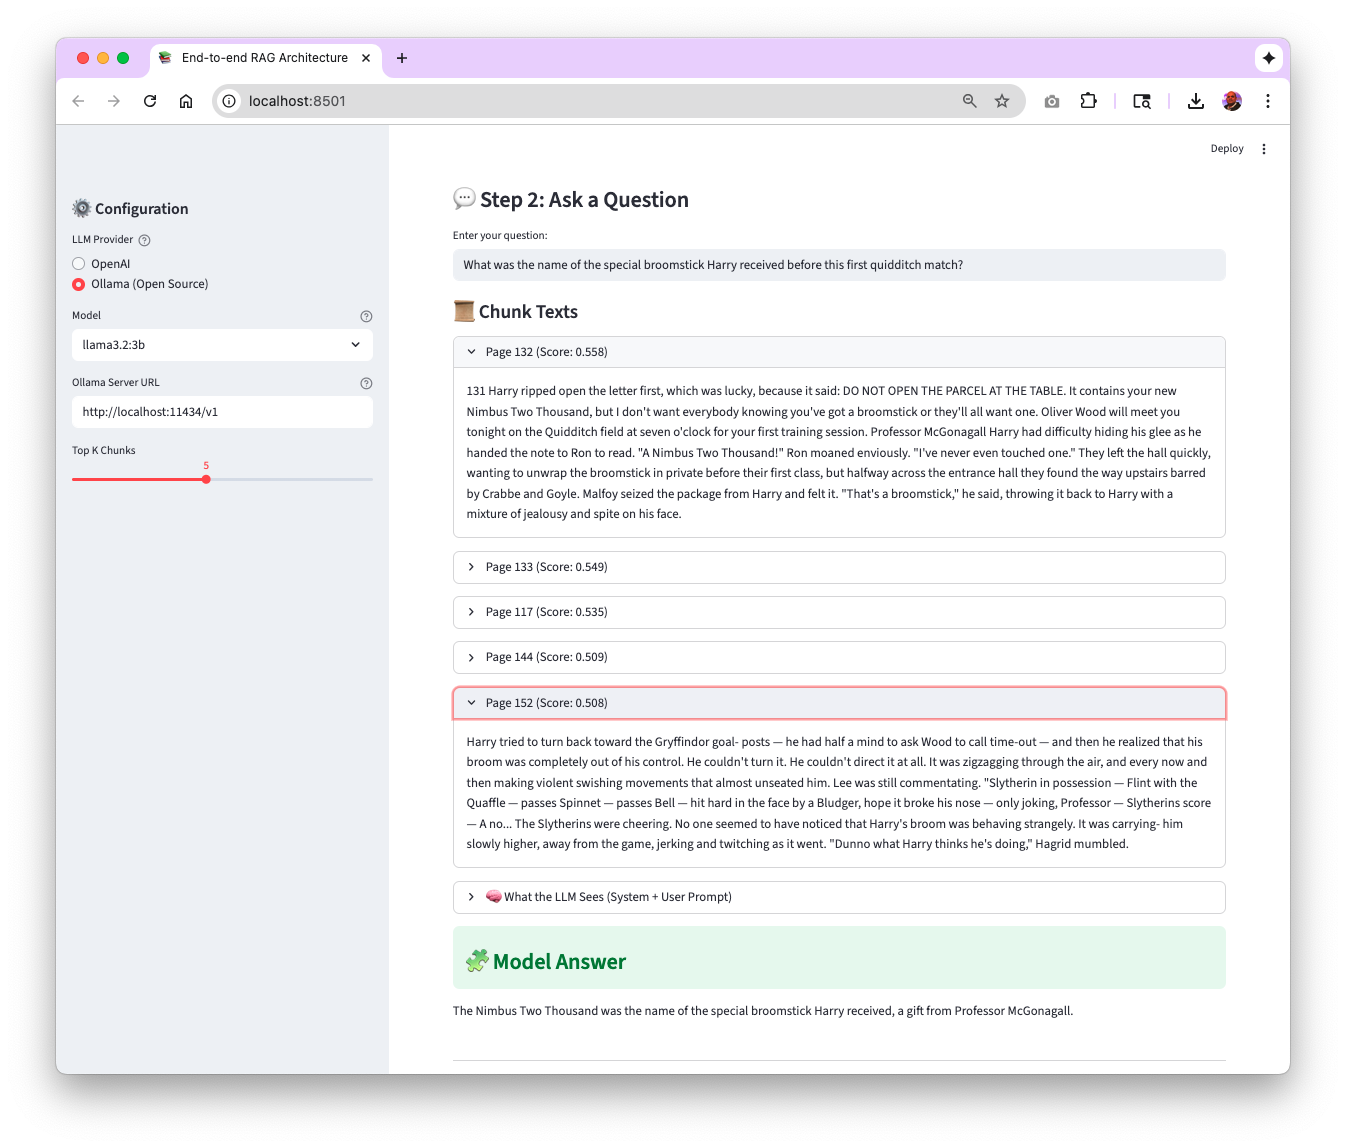
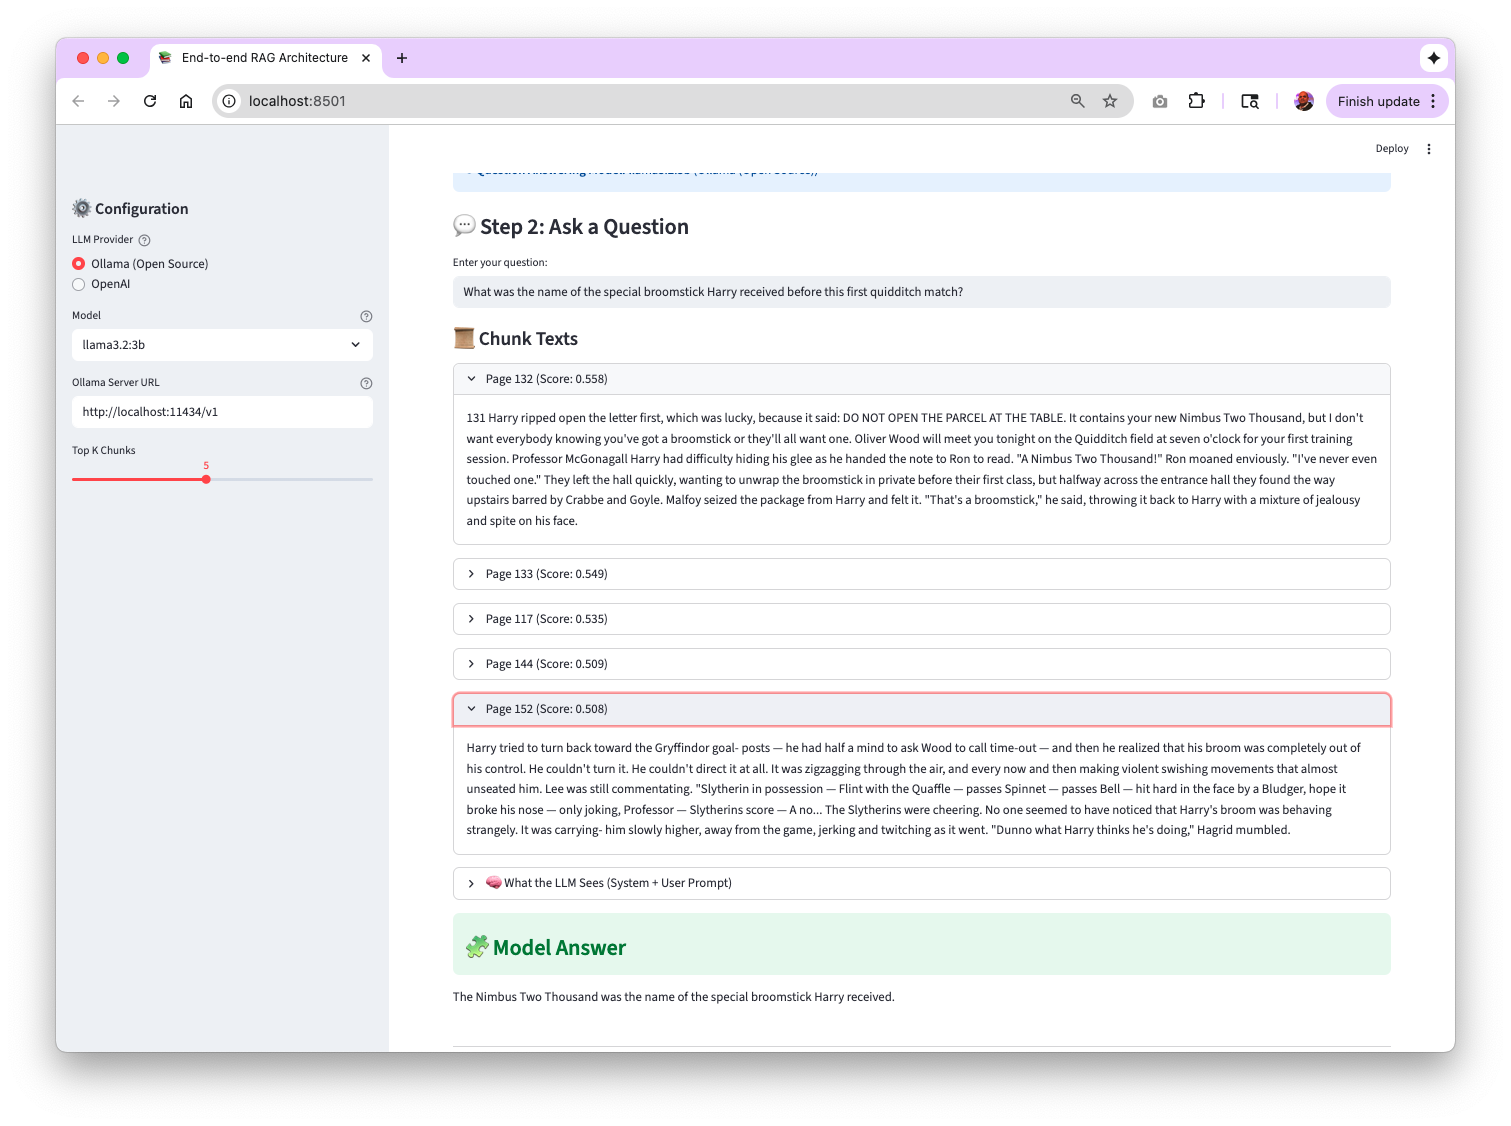
Added functionality for open source LLM

Changed region(s): [[0.0312, 0.0311, 0.9673, 0.9325]]

diff --git a/app.py b/app.py
@@ -44,7 +44,7 @@ st.markdown("""
 <div class="main-header">
     <h1 style="margin:0; font-size: 2.5rem;">📚 End-to-end RAG Architecture</h1>
     <p style="margin-top: 0.5rem; font-size: 1.1rem; opacity: 0.9;">
-        Retrieval-Augmented Generation powered by ChromaDB & OpenAI
+        Retrieval-Augmented Generation powered by ChromaDB & Ollama (or OpenAI)
     </p>
 </div>
 """, unsafe_allow_html=True)
@@ -98,7 +98,7 @@ with st.expander("ℹ What is this app?", expanded=False):
             <h4>💬 Ask Questions</h4>
             <ul>
                 <li>Ask natural language questions about your PDFs</li>
-                <li>Get answers powered by OpenAI GPT or Ollama open-source models</li>
+                <li>Get answers powered by Ollama (free, local) or OpenAI GPT</li>
                 <li>See the exact context sent to the AI</li>
                 <li>View which document chunks were used</li>
                 <li>Transparent and explainable AI responses</li>
@@ -111,7 +111,7 @@ with st.expander("ℹ What is this app?", expanded=False):
             <h4>🛠 Manage Your Data</h4>
             <ul>
                 <li>View collection statistics and summaries</li>
-                <li>Choose between OpenAI or Ollama models</li>
+                <li>Choose between Ollama (default) or OpenAI models</li>
                 <li>Adjust top-K retrieval parameter</li>
                 <li>Reset ChromaDB to start fresh</li>
             </ul>
@@ -126,7 +126,7 @@ with st.expander("ℹ What is this app?", expanded=False):
     4. **Store**: Vectors are stored in ChromaDB for fast similarity search
     5. **Query**: You ask a question in natural language
     6. **Retrieve**: System finds the most relevant chunks using vector similarity
-    7. **Generate**: Your chosen LLM (OpenAI GPT or Ollama) generates an answer based on retrieved context
+    7. **Generate**: Your chosen LLM (Ollama or OpenAI GPT) generates an answer based on retrieved context
     8. **Display**: You see the answer, context, and source chunks
 
     ### 🚀 Tech Stack
@@ -134,8 +134,8 @@ with st.expander("ℹ What is this app?", expanded=False):
     - **Vector DB**: ChromaDB (persistent storage)
     - **Embeddings**: SentenceTransformers (`all-mpnet-base-v2`)
     - **LLM Options**:
-      - OpenAI GPT (gpt-4o-mini, gpt-4o, gpt-4-turbo)
-      - Ollama (llama3.2, llama3.1, mistral, qwen2.5)
+      - Ollama (llama3.2, llama3.1, mistral, qwen2.5) - Free & Local
+      - OpenAI GPT (gpt-4o-mini, gpt-4o, gpt-4-turbo) - Cloud-based
     - **PDF Processing**: PyMuPDF
     - **Text Processing**: NLTK
     """)
@@ -153,18 +153,12 @@ os.makedirs(data_dir, exist_ok=True)
 # LLM Provider selection
 llm_provider = st.sidebar.radio(
     "LLM Provider",
-    ["OpenAI", "Ollama (Open Source)"],
-    help="Choose between OpenAI GPT models or open-source models via Ollama"
+    ["Ollama (Open Source)", "OpenAI"],
+    help="Choose between Ollama open-source models (free, local) or OpenAI GPT (cloud-based)"
 )
 
 # Model selection based on provider
-if llm_provider == "OpenAI":
-    model_id = st.sidebar.selectbox(
-        "Model",
-        ["gpt-4o-mini", "gpt-4o", "gpt-4-turbo"],
-        help="Select OpenAI model"
-    )
-else:  # Ollama
+if llm_provider == "Ollama (Open Source)":
     model_id = st.sidebar.selectbox(
         "Model",
         [
@@ -180,6 +174,12 @@ else:  # Ollama
         value="http://localhost:11434/v1",
         help="Ollama server endpoint"
     )
+else:  # OpenAI
+    model_id = st.sidebar.selectbox(
+        "Model",
+        ["gpt-4o-mini", "gpt-4o", "gpt-4-turbo"],
+        help="Select OpenAI model"
+    )
 
 top_k = st.sidebar.slider("Top K Chunks", 1, 10, 5)
 
@@ -188,15 +188,15 @@ top_k = st.sidebar.slider("Top K Chunks", 1, 10, 5)
 # ----------------------------------------------------------
 # INIT RAG HELPER
 # ----------------------------------------------------------
-if llm_provider == "OpenAI":
-    rag = RAGHelper(data_dir=data_dir, collection_name="rag_collection", model_id=model_id)
-else:  # Ollama
+if llm_provider == "Ollama (Open Source)":
     rag = RAGHelperOllama(
         data_dir=data_dir,
         collection_name="rag_collection",
         model_id=model_id,
         ollama_base_url=ollama_base_url
     )
+else:  # OpenAI
+    rag = RAGHelper(data_dir=data_dir, collection_name="rag_collection", model_id=model_id)
 
 # ----------------------------------------------------------
 # PDF UPLOAD AND PROCESSING

diff --git a/README.md b/README.md
@@ -1,7 +1,8 @@
 # 📚 End-to-end RAG Architecture
 
-> **AI-powered PDF chat assistant** using Retrieval-Augmented Generation (RAG), ChromaDB, and your choice of LLMs (OpenAI GPT or Ollama open-source models).
+> **AI-powered PDF chat assistant** using Retrieval-Augmented Generation (RAG), ChromaDB, and your choice of LLMs (Ollama open-source models or OpenAI GPT).
 > Upload PDFs, ask natural-language questions, and get **accurate, source-grounded answers** with full context visibility.
+> **100% free and private** with local Ollama models, or use OpenAI for cloud-based inference.
 
 ---
 
@@ -32,7 +33,7 @@ It extracts, chunks, embeds, and stores document text for fast, context-aware re
 - **PDF Processing** – Text extraction and chunking via PyMuPDF + NLTK
 - **Semantic Search** – 768-dim embeddings with SentenceTransformers
 - **ChromaDB Storage** – Persistent, deduplicated vector database
-- **Dual LLM Support** – Choose between OpenAI GPT or Ollama open-source models
+- **Dual LLM Support** – Choose between Ollama open-source models (free, local) or OpenAI GPT (cloud-based)
 - **AI-Powered Q&A** – Contextual responses from your chosen LLM
 - **Transparency** – Shows retrieved chunks and similarity scores
 - **Fast** – Retrieves context in milliseconds
@@ -71,8 +72,8 @@ It extracts, chunks, embeds, and stores document text for fast, context-aware re
     <td width="50%" valign="top">
       <h3>🤖 AI-Powered Q&A</h3>
       <ul>
-        <li><strong>OpenAI:</strong> <code>gpt-4o-mini</code>, <code>gpt-4o</code>, <code>gpt-4-turbo</code></li>
-        <li><strong>Ollama:</strong> <code>llama3.2</code>, <code>llama3.1</code>, <code>mistral</code>, <code>qwen2.5</code></li>
+        <li><strong>Ollama (Default):</strong> <code>llama3.2</code>, <code>llama3.1</code>, <code>mistral</code>, <code>qwen2.5</code> - Free & Local</li>
+        <li><strong>OpenAI (Optional):</strong> <code>gpt-4o-mini</code>, <code>gpt-4o</code>, <code>gpt-4-turbo</code> - Cloud-based</li>
         <li>Temperature = 0.2 for factual answers</li>
         <li>Automatic context-building and prompt expansion</li>
       </ul>
@@ -91,7 +92,7 @@ It extracts, chunks, embeds, and stores document text for fast, context-aware re
 | **Streamlit UI**         | Web interface for upload & chat      |
 | **ChatPDF Base**         | PDF parsing, chunking, deduplication |
 | **RAGHelper**            | Query handling, LLM API calls        |
-| **OpenAI / Ollama**      | LLM providers for answer generation  |
+| **Ollama / OpenAI**      | LLM providers for answer generation  |
 | **ChromaDB**             | Vector store for embeddings          |
 | **SentenceTransformers** | Generates semantic embeddings        |
 
@@ -107,9 +108,17 @@ cd end-to-end-rag-architecture
 uv sync
 ```
 
-### 2. Configure Environment
+### 2. Configure LLM Provider
 
-**For OpenAI (Proprietary):**
+**Option A: Ollama (Recommended - Free & Local)**
+
+1. Install Ollama: [https://ollama.com/download](https://ollama.com/download) or `brew install ollama`
+2. Pull a model: `ollama pull llama3.2:3b`
+3. Ollama will start automatically (runs at `http://localhost:11434`)
+
+See [OLLAMA_SETUP.md](OLLAMA_SETUP.md) for detailed setup instructions.
+
+**Option B: OpenAI (Cloud-based)**
 
 Create a `.env` file:
 
@@ -118,19 +127,11 @@ OPENAI_API_KEY=your_openai_api_key
 TOKENIZERS_PARALLELISM=false
 ```
 
-**For Ollama (Open Source):**
-
-1. Install Ollama: [https://ollama.com/download](https://ollama.com/download) or `brew install ollama`
-2. Pull a model: `ollama pull llama3.2:3b`
-3. Ollama will start automatically (runs at `http://localhost:11434`)
-
-See [OLLAMA_SETUP.md](OLLAMA_SETUP.md) for detailed Ollama setup instructions.
-
 **Configuration Options:**
 
-- **LLM Provider:** OpenAI or Ollama (selected in UI)
-- **OpenAI Models:** `gpt-4o-mini`, `gpt-4o`, `gpt-4-turbo`
-- **Ollama Models:** `llama3.2:3b`, `llama3.1:8b`, `mistral:7b`, `qwen2.5:7b`
+- **LLM Provider:** Ollama (default) or OpenAI (selected in UI)
+- **Ollama Models:** `llama3.2:3b`, `llama3.1:8b`, `mistral:7b`, `qwen2.5:7b` - Free, runs locally
+- **OpenAI Models:** `gpt-4o-mini`, `gpt-4o`, `gpt-4-turbo` - Paid, cloud-based
 - **Top-K:** number of chunks to retrieve (default = 5)
 - **Chunk Size:** adjustable in `chatpdf_base.py → max_sentences`
 
@@ -164,9 +165,9 @@ Visit [http://localhost:8501](http://localhost:8501)
 
 ### 5. Using the App
 
-1. **Select LLM Provider** – In the sidebar, choose between:
-   - **OpenAI** (requires API key in `.env`)
-   - **Ollama (Open Source)** (requires Ollama installed and model pulled)
+1. **Select LLM Provider** – In the sidebar, choose:
+   - **Ollama (Open Source)** - Recommended, free, runs locally (requires Ollama installed and model pulled)
+   - **OpenAI** - Cloud-based alternative (requires API key in `.env`)
 
 2. **Upload a PDF** – The app automatically chunks and indexes your document into ChromaDB
 
@@ -177,6 +178,8 @@ Visit [http://localhost:8501](http://localhost:8501)
 4. **Get Contextual Answers** – The system retrieves relevant chunks and uses your chosen LLM to generate accurate, context-aware answers
 
 **Note:** For complete Ollama setup and troubleshooting, see [OLLAMA_SETUP.md](OLLAMA_SETUP.md) or [OPEN_SOURCE_LLM_OPTIONS.md](OPEN_SOURCE_LLM_OPTIONS.md)
+
+**Why Ollama?** 100% free, runs locally on your Mac, keeps your data private, and performs excellently on Apple Silicon with Metal acceleration.
 
 ---
 
